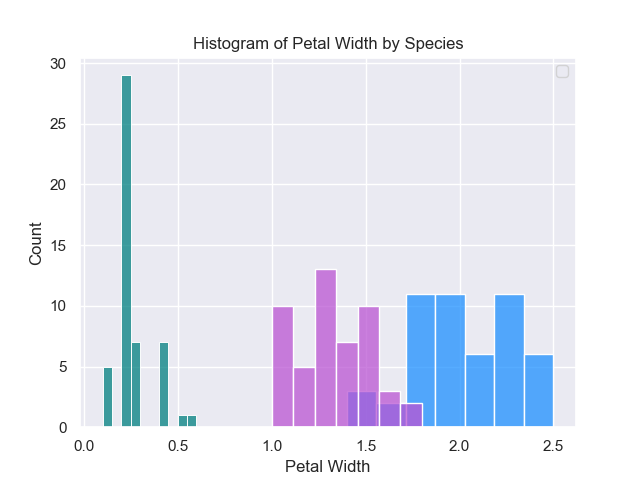
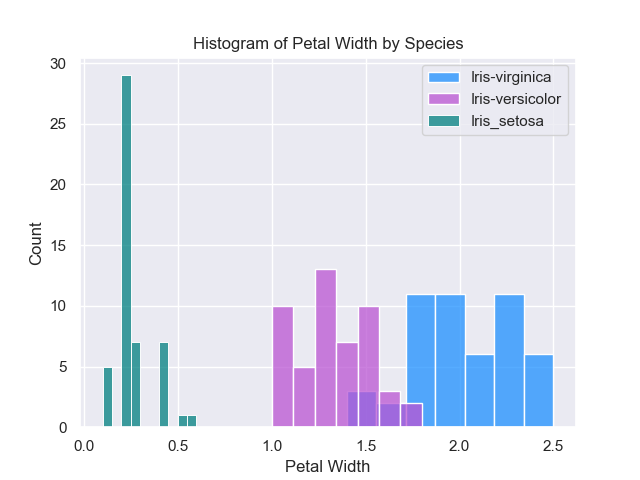
code fix + updated png files

Changed region(s): [[0.6562, 0.125, 0.875, 0.2812]]

diff --git a/analysis.py b/analysis.py
@@ -11,7 +11,7 @@ import sys
 file1 = 'iris.data' 
 iris = pnd.read_csv(file1, header =None)
 
-# setting variables for atributes and class
+# setting variables for attributes and class
 sl = 'Sepal Length'
 sw = 'Sepal Width'
 pl = 'Petal Length'
@@ -35,34 +35,34 @@ original_stdout = sys.stdout
 with open("irisSummary.txt", "a") as f: 
 
     sys.stdout = f
-    print('\nAnalysis of the Iris Dataset\n') 
-    print ('Basic information\n')
+    print('\n**************** ANALYSIS OF THE IRIS DATASET *****************\n\n') 
+    print ('====================== Basic information ======================\n')
     print (iris.info()) 
     #Checking info on dataset: rows, columns, entries, data types, null values
 
-    print('\nUnique Species Names and Dataset Balance\n')
+    print('\n============ Unique Species Names and Dataset Balance  ===========\n')
     print(iris[sp].value_counts())
 
-    print ('\nDuplicate Entires\n')
+    print ('\n====================== Duplicate Entries ======================\n')
     print (iris[iris.duplicated()])
 
-    print('\nOverview of the Dataset\n')
-    print('First 5 Rows\n')
+    print('\n==================== Overview of the Dataset ===================\n')
+    print('------------------------------ First 5 Rows ---------------------\n')
     print(iris.head()) 
-    print('\nRandom Sample - 5 Random Rows\n')# Random sample of data from the dataset. 
+    print('\n----------------- Random Sample - 5 Random Rows ---------------\n')# Random sample of data from the dataset. 
     print (iris.sample(5))
     # Outputs five random complete data entries from the dataset
 
-    print('\nStatistical Insights\n')
+    print('\n====================== Statistical Insights ======================\n')
     #The statistical insights
     print(iris.describe())
 
-    print('\nMedian of Attributes\n') 
+    print('\n===================== Median of Attributes =====================s\n') 
     print(iris.median()) # Print the median of each of the attributes in tabular form
 
-    print('\nThe Mean Values of the Three Species\n')
+    print('\n============== The Mean Values of the Three Species ==============\n')
     print(iris.groupby(sp).mean())
-    print('\nThe Correlation Between the Values of the Three Species\n')
+    print('\n======== The Correlation Between the Values of the Three Species ======\n')
     print(iris.groupby(sp).corr())
 
     sys.stdout = original_stdout
@@ -72,6 +72,7 @@ with open("irisSummary.txt", "a") as f:
 plt.title('Species Count')
 sea.countplot(x=sp, data=iris)
 plt.savefig('species_count')
+plt.show()
 
 # histogram - general by attribute
 fig, axs = plt.subplots(2, 2, figsize=(8, 8))
@@ -81,18 +82,20 @@ sea.histplot(data=iris, x=pl, color="slateblue", ax=axs[1, 0])
 sea.histplot(data=iris, x=pw, color="teal", ax=axs[1, 1])
 plt.suptitle('Attributes - General')
 plt.savefig('attributes_general')
+plt.show()
 
 # defining function for histograms - attributes by species
 def histogram_plot(p1, p2, p3):
     
-    sea.histplot(data = iris_virginica[p1], label = 'Iris virginica', color = 'dodgerblue') 
-    sea.histplot(data = iris_versicolor[p1], label = 'Iris versicolor', color = 'mediumorchid')
-    sea.histplot(data = iris_setosa[p1], label = 'Iris setosa', color = 'teal')
+    sea.histplot(data = iris_virginica[p1], color = 'dodgerblue') 
+    sea.histplot(data = iris_versicolor[p1], color = 'mediumorchid')
+    sea.histplot(data = iris_setosa[p1], color = 'teal')
     plt.xlabel(p2)
     plt.ylabel('Count')
     plt.title('Histogram of ' + p2 + ' by Species') 
-    plt.legend(loc='upper right')
+    plt.legend(['Iris-virginica', 'Iris-versicolor', 'Iris_setosa'])
     plt.savefig(p3)
+    plt.show()
 
 def histograms():
     histogram_plot(sl, sl, 'sepal_length_by_species') 
@@ -101,8 +104,9 @@ def histograms():
     histogram_plot(pw, pw, 'petal_width_by_species')
 
 histograms()
+plt.show()
 
-# Attribiutes by species + Outliers
+# Attributes by species + Outliers
 fig, axes = plt.subplots(2, 2, figsize=(8, 8)) 
 sea.boxplot(x=sp, y=pl,data=iris, ax=axes[0,0])
 sea.boxplot(x=sp, y=sl, data=iris, ax=axes[0,1])
@@ -110,21 +114,25 @@ sea.boxplot(x=sp, y=pw,data=iris, ax=axes[1,0])
 sea.boxplot(x=sp, y=sw, data=iris, ax=axes[1,1])
 plt.suptitle('Attributes by Species + Outliers')
 plt.legend()
-plt.savefig('atributes_outliers')
+plt.savefig('attributes_outliers')
+plt.show()
 
 sea.scatterplot(x=pl, y=pw, hue=sp, data=iris, palette=pal)
 plt.legend(loc='upper left')
-plt.title('Correraltion between Petal Length & Width')
+plt.title('Correlation between Petal Length & Width')
 plt.savefig('petal_length_width')
+plt.show()
 
 sea.scatterplot(x=sl, y=sw, hue=sp, data=iris, palette=pal)
 plt.legend(loc='upper right')
-plt.title('Correraltion between Sepal Length & Width')
+plt.title('Correlation between Sepal Length & Width')
 plt.savefig('sepal_length_width')
+plt.show()
 
 sea.pairplot(data=iris, hue=sp, height=2, palette=pal)
 plt.subplots_adjust(top=0.95)
 plt.suptitle('Relationship Between Attributes by Species')
 plt.savefig('attributes_pairplot')
+plt.show()
 
 

diff --git a/test.py b/test.py
@@ -1,0 +1,51 @@
+# Analysis of the Iris Dataset.
+# Author: Daria Sep
+
+import numpy as np
+import matplotlib.pyplot as plt
+import pandas as pnd
+import seaborn as sea
+import sys 
+
+# Importing data from the file.
+file1 = 'iris.data' 
+iris = pnd.read_csv(file1, header =None)
+
+# setting variables for atributes and class
+sl = 'Sepal Length'
+sw = 'Sepal Width'
+pl = 'Petal Length'
+pw = 'Petal Width'
+sp = 'Species'
+
+# Adding headers to columns
+iris.columns = [sl, sw, pl, pw, sp]
+
+# Categorizing data by species
+iris_setosa = iris[iris[sp]=='Iris-setosa'] 
+iris_virginica = iris[iris[sp]=='Iris-virginica']
+iris_versicolor = iris[iris[sp]=='Iris-versicolor'] 
+
+# setting style of the grid + colour palette
+pal = ("dodgerblue", "mediumorchid", "teal", "slateblue")
+sea.set(style="darkgrid", palette=pal)
+
+def histogram_plot(p1, p2, p3):
+    
+    sea.histplot(data = iris_virginica[p1], color = 'dodgerblue') 
+    sea.histplot(data = iris_versicolor[p1], color = 'mediumorchid')
+    sea.histplot(data = iris_setosa[p1], color = 'teal')
+    plt.xlabel(p2)
+    plt.ylabel('Count')
+    plt.title('Histogram of ' + p2 + ' by Species') 
+    plt.legend(['Iris-virginica', 'Iris-versicolor', 'Iris_setosa'])
+    plt.show()
+
+def histograms():
+    histogram_plot(sl, sl, 'sepal_length_by_species') 
+    histogram_plot(sw, sw, 'sepal_width_by_species')
+    histogram_plot(pl, pl, 'petal_length_by_species')
+    histogram_plot(pw, pw, 'petal_width_by_species')
+
+histograms()
+plt.show()
